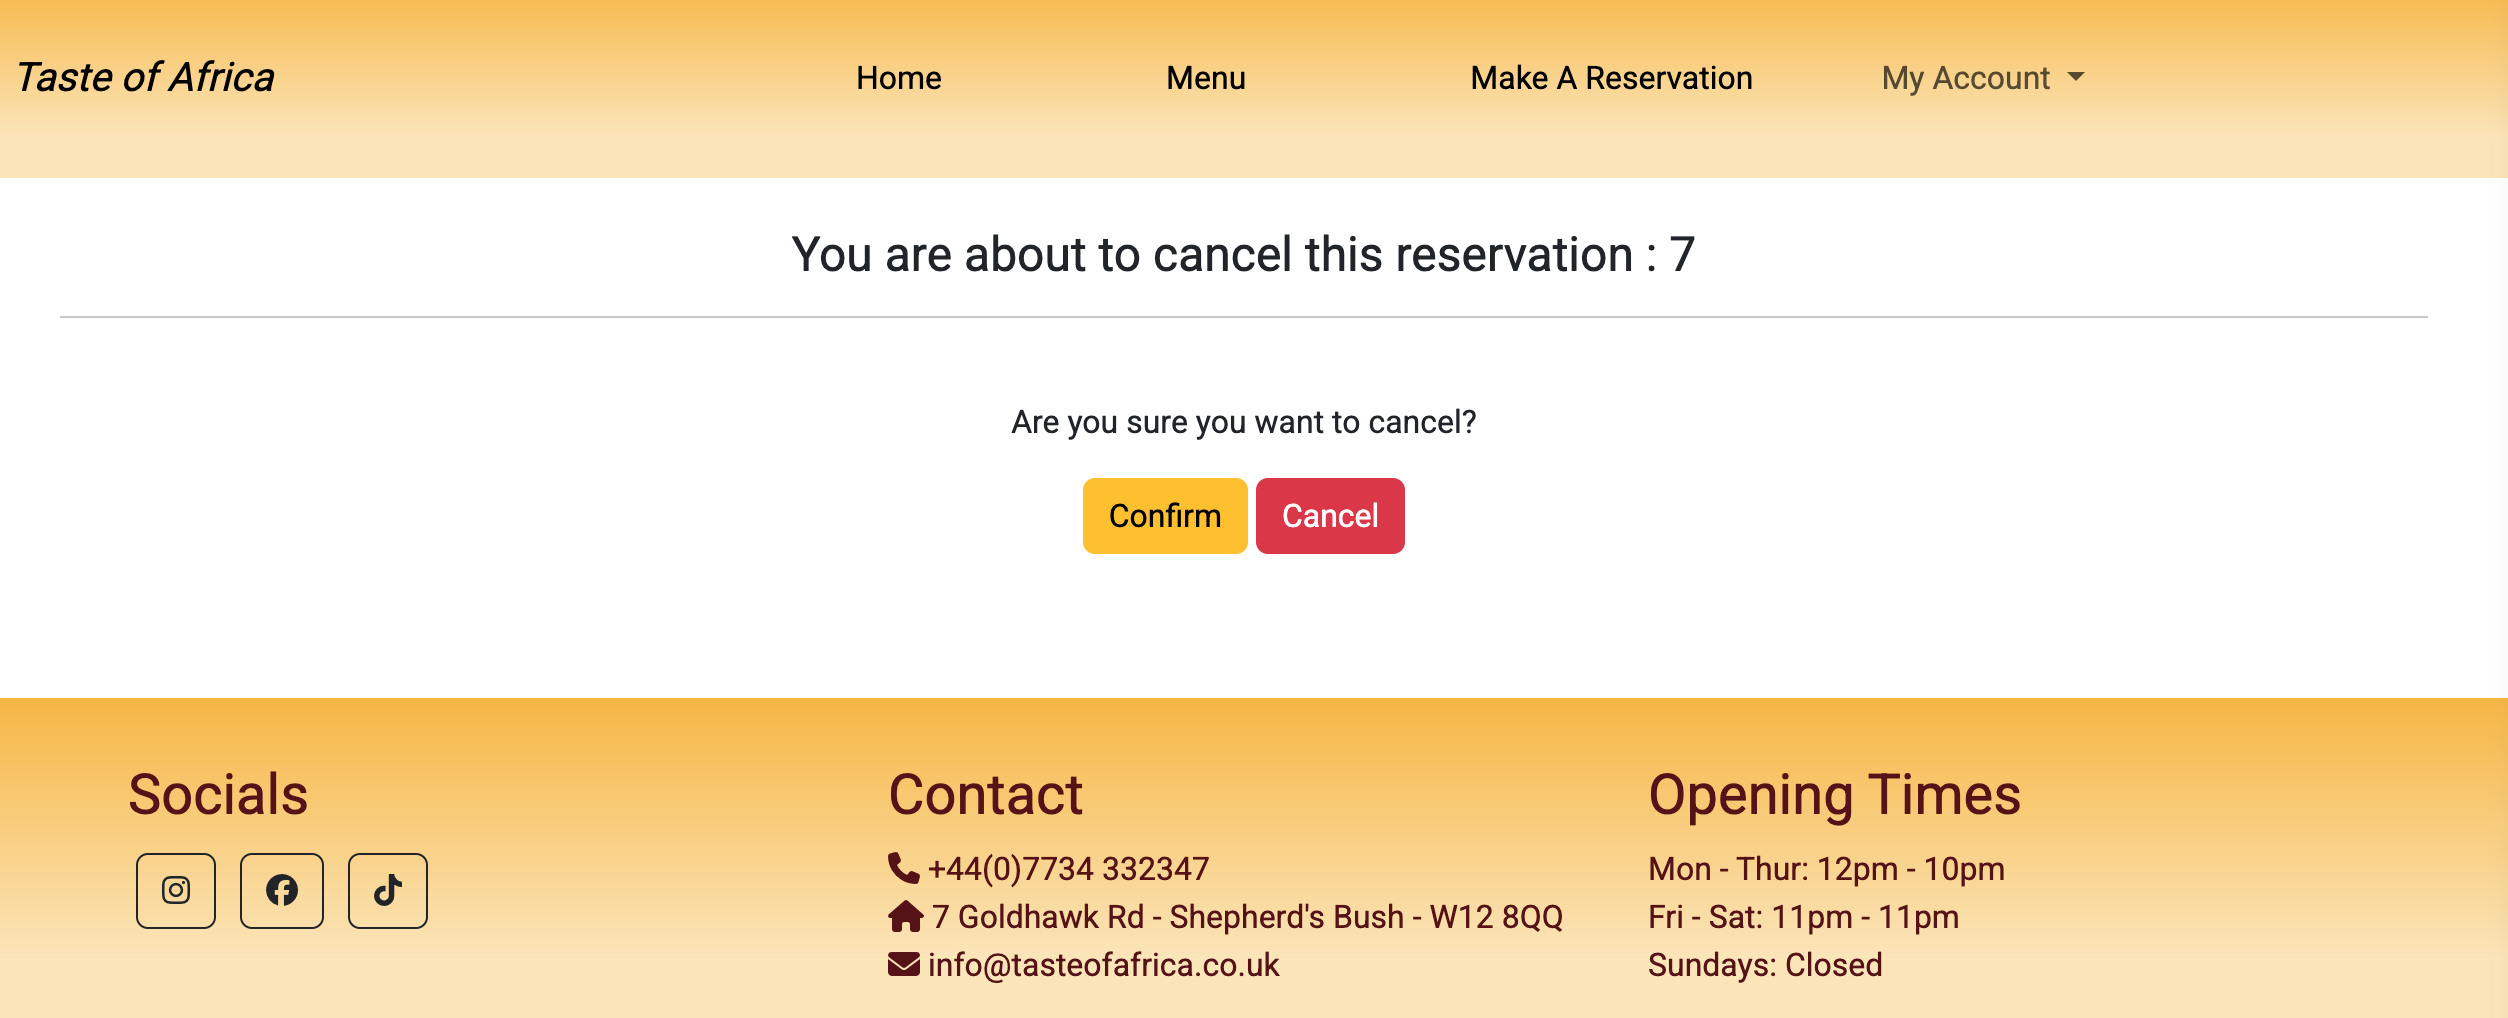
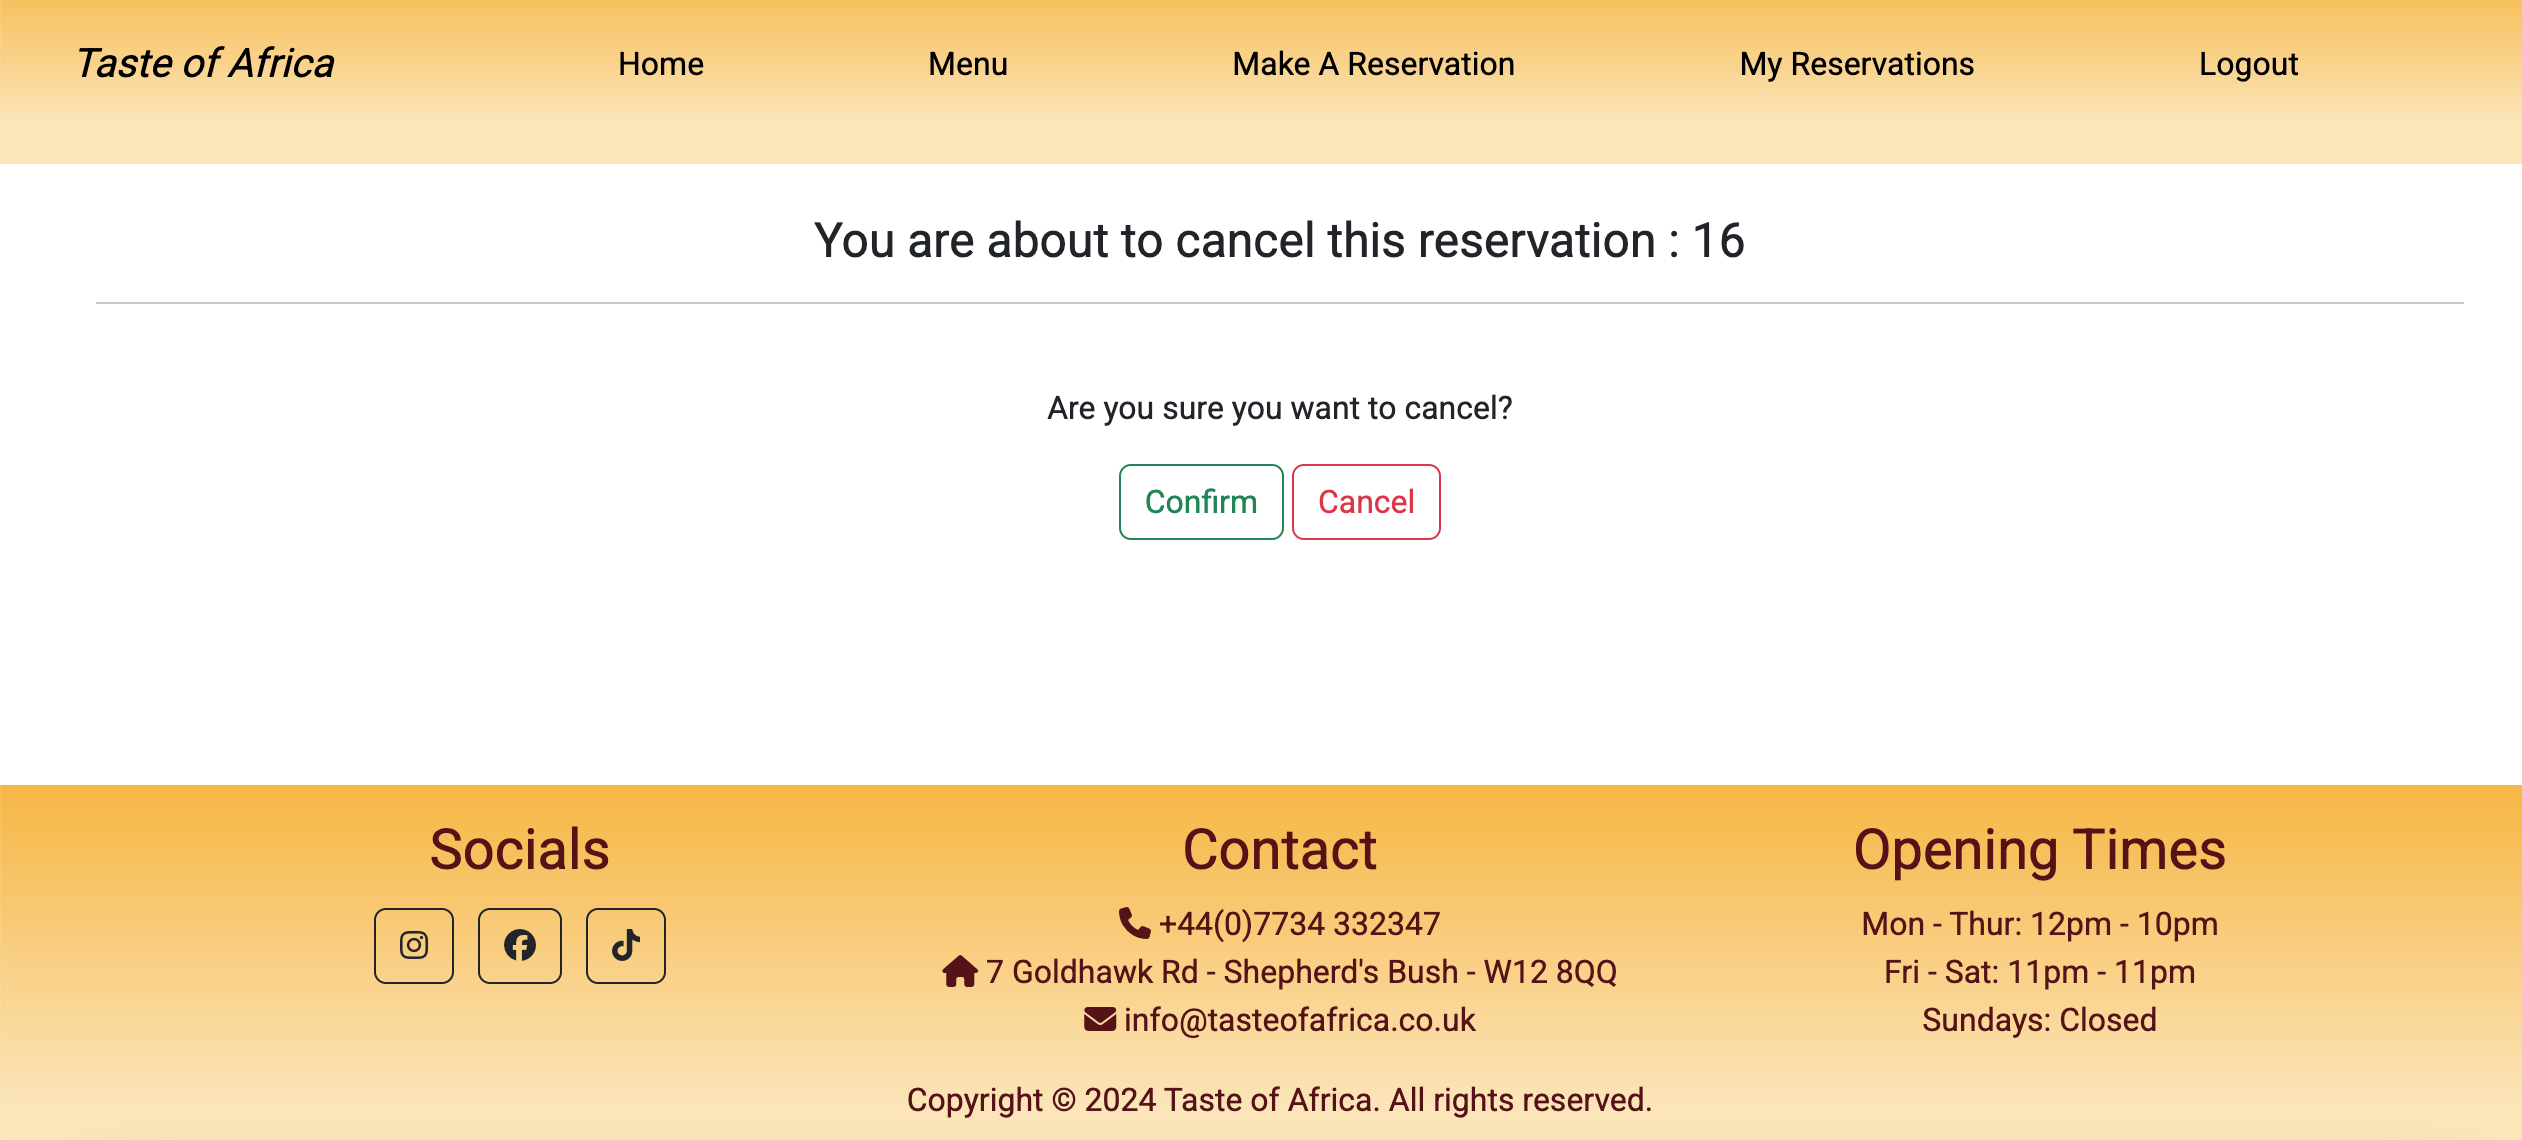
add cancel reservation testing write ups to testing.md

diff --git a/reservation/templates/delete_reservation.html b/reservation/templates/delete_reservation.html
@@ -13,8 +13,8 @@
     <div class="row row-text">
         <form method="POST">{% csrf_token %}
             <p>Are you sure you want to cancel? </p>
-                <button type="submit" class="btn btn-warning">Confirm</button>
-                <a href="{% url 'manage_reservations' %}" class="btn btn-danger">Cancel</a>
+                <button type="submit" class="btn btn-outline-success">Confirm</button>
+                <a href="{% url 'manage_reservations' %}" class="btn btn-outline-danger">Cancel</a>
         </form>
     </div>
 </div>

diff --git a/TESTING.md b/TESTING.md
@@ -43,6 +43,7 @@ Users are able to amend their booking via the manage resservation screen. The us
  ### As a user, I want to be able to log in and cancel my booking when necessary
 
   - ![Cancel reservation](static/screenshots/cancel-reservation.png)
+  As displayed above, when a user decides to cancel their booking, they will be presented with the above scree. The buttons will only go fully green or red when the user hovers their mouse over the butons for better customer experience.
 
 ### As a user, I want to be aware of the opening time for when I want to make a reservations 
 
